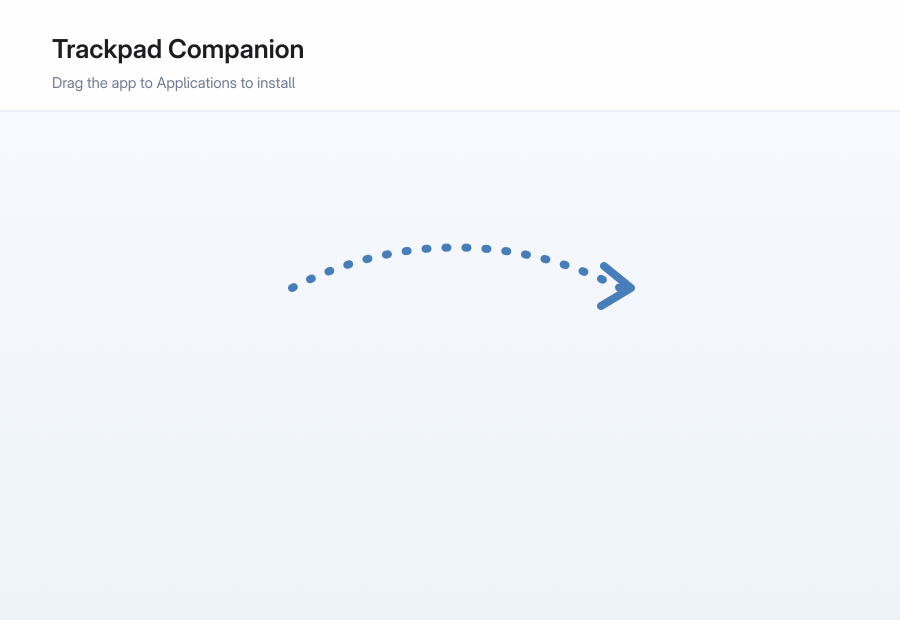
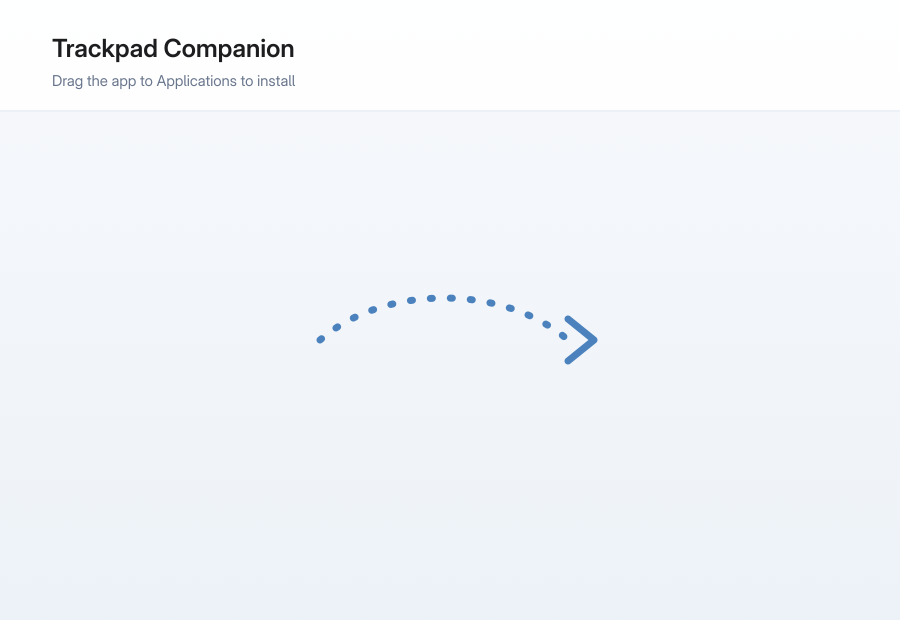
fix: redesign macOS DMG installer interface

diff --git a/packaging/macos/README.md b/packaging/macos/README.md
@@ -16,6 +16,9 @@ than reusing `target/release` binaries built on Linux.
 The scripts create an unsigned `.app`, `.zip`, and `.dmg` under `dist/macos`.
 The DMG uses a Finder icon layout with a branded background, the app icon, and
 the conventional `Applications` shortcut for drag-and-drop installation.
+Packaging is intentionally non-interactive: neither script opens the resulting
+DMG. Double-click the generated `Trackpad-Companion-*-macos.dmg` (or run
+`open` yourself) when you want Finder to show the installation window.
 `package-dmg.sh` removes older local DMGs first, so opening a wildcard after a
 rebuild cannot select a stale application. If `build-app.sh` fails during
 compilation, it removes the previous local app bundle so a following packaging
@@ -25,11 +28,14 @@ step cannot silently package an old build.
 creates the standard 1x/2x iconset with macOS `sips` and `iconutil` in the
 ignored `dist/macos` directory. `dmg-background.png` is embedded only in the
 DMG staging volume and is not copied into the installed app.
-The installer background is a `900x620` asset. Finder receives explicit app
-and Applications coordinates, and the staging `.background` directory is
-marked hidden with filesystem and Finder metadata. The background contains
-only the title, one install instruction, and the transfer arrow; Finder owns
-the two icon labels so explanatory copy cannot overlap them.
+The installer background is a `900x620` asset. Finder receives a fixed
+`900x620` window and explicit icon-center coordinates, `{245,340}` for the app
+and `{655,340}` for the Applications shortcut. The staging `.background`
+directory and `.hidden` manifest are hidden before the image is created and
+again after Finder saves its icon view, using filesystem flags plus Finder
+metadata. The background contains only the title, one install instruction, and
+the transfer arrow; Finder owns the two icon labels so explanatory copy cannot
+overlap them.
 Set `CODESIGN_IDENTITY='Developer ID Application: ...'` for a hardened runtime
 signature. Notarization remains a release-pipeline concern: after signing,
 submit the DMG with `xcrun notarytool submit` and staple it with
